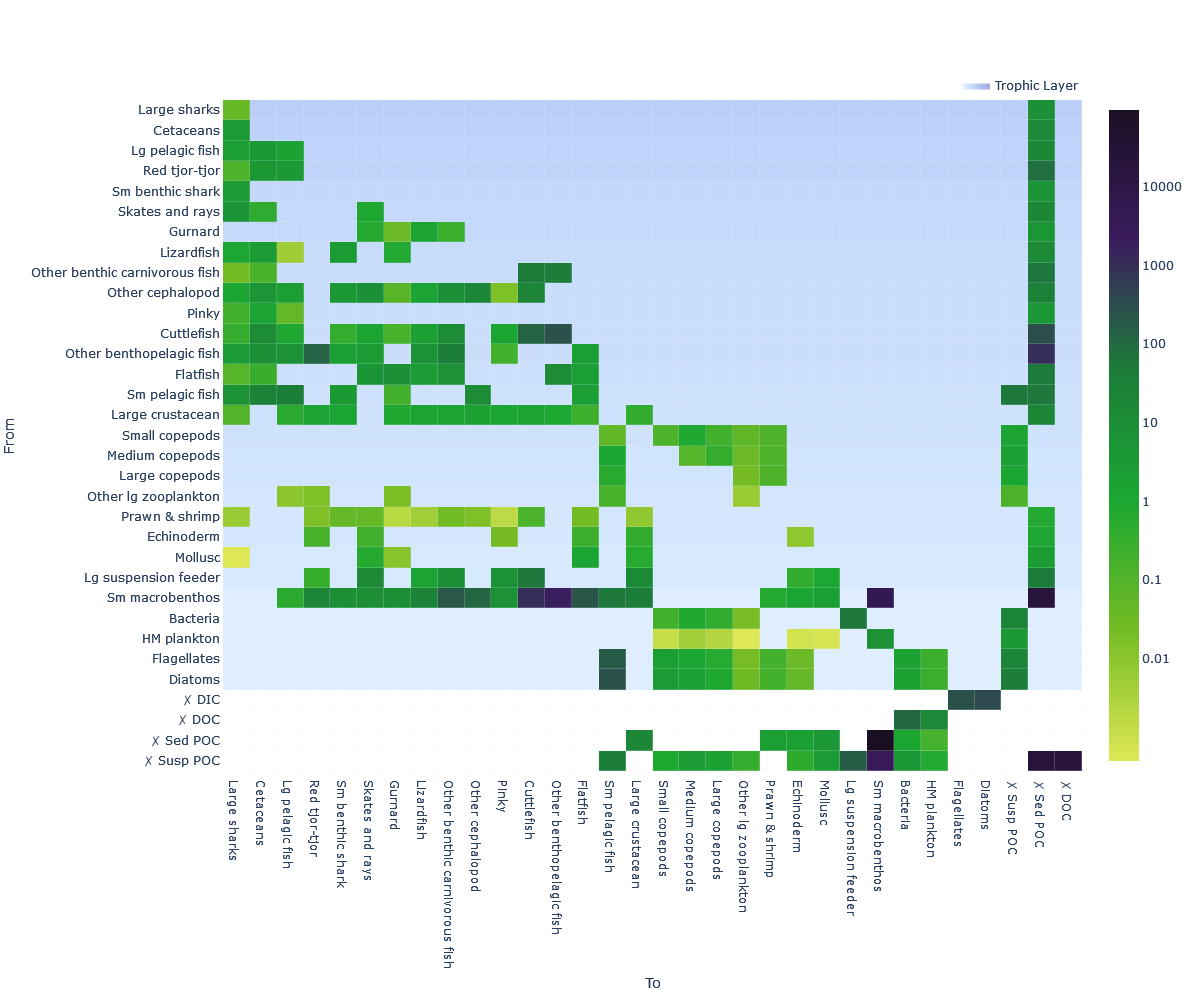
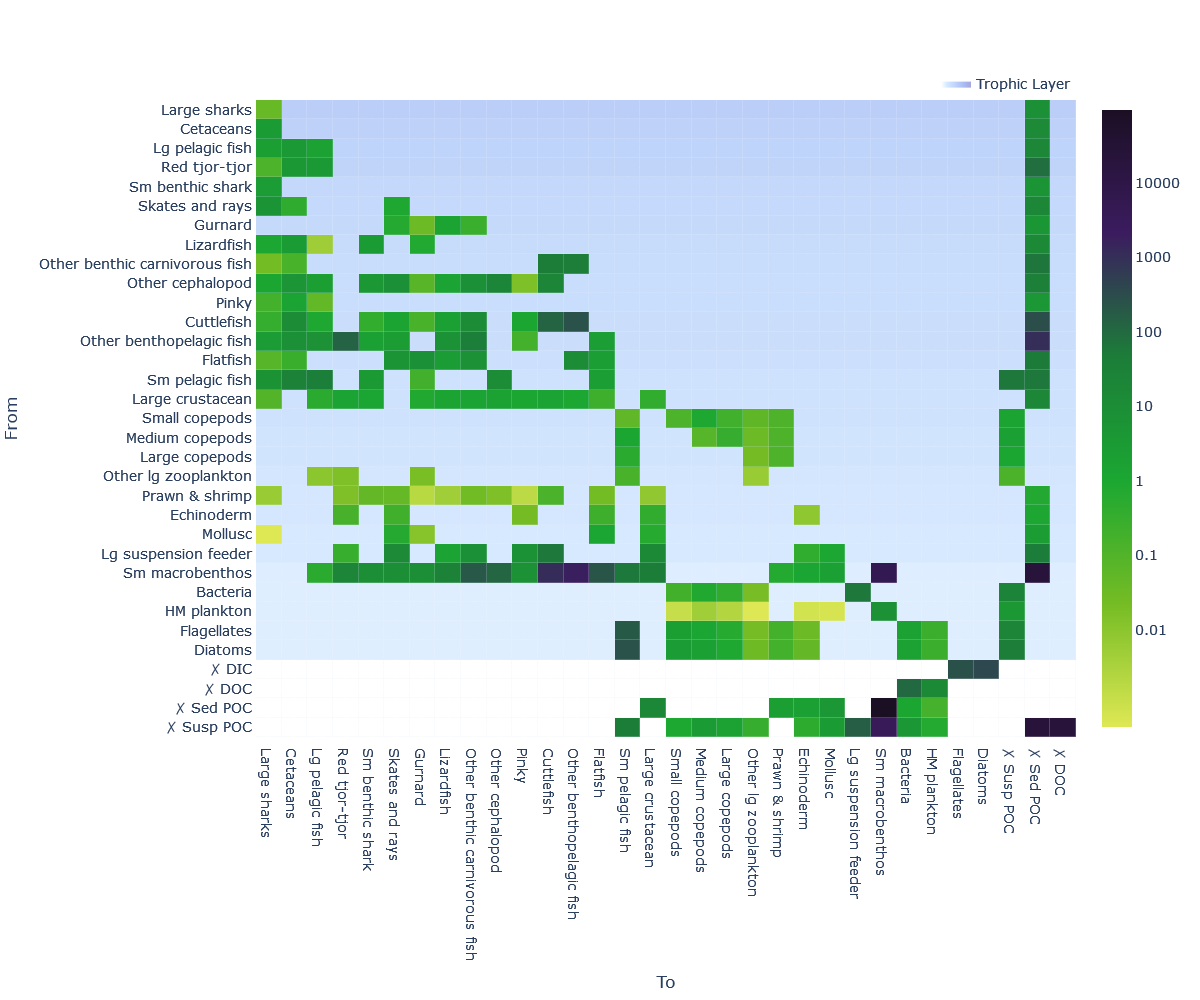
Updated font size on all plots and promoted it to a function argument

Changed region(s): [[0.0308, 0.062, 0.9867, 0.961], [0.0, 0.403, 0.0308, 0.434]]

diff --git a/foodwebviz/visualization.py b/foodwebviz/visualization.py
@@ -127,7 +127,7 @@ def _get_array_order(graph, nodes, reverse=False):
 
 def draw_heatmap(food_web, boundary=False, normalization='log',
                  show_trophic_layer=True, switch_axes=False,
-                 width=1200, height=800):
+                 width=1200, height=800, font_size=14):
     '''Visualize foodweb as a heatmap. On the interesction
     of X axis ("from" node) and Y axis ("to" node) flow weight
     is indicated.
@@ -151,6 +151,8 @@ def draw_heatmap(food_web, boundary=False, normalization='log',
         Width of the heatmap plot, large foodwebs might not fit in default width.
     height : int, optional (default=800)
         Height of the heatmap plot, large foodwebs might not fit in default height.
+    font_size: int, optional (default=18)
+        font size of labels
 
     Returns
     -------
@@ -215,13 +217,14 @@ def draw_heatmap(food_web, boundary=False, normalization='log',
                           xanchor="right",
                           x=1,
                           y=1),
+                      font={'size': font_size}
                       )
     fig.update_xaxes(showspikes=True, spikethickness=0.5)
     fig.update_yaxes(showspikes=True, spikesnap="cursor", spikemode="across", spikethickness=0.5)
     return fig
 
 
-def draw_trophic_flows_heatmap(food_web, switch_axes=False, log_scale=False, width=1200, height=800):
+def draw_trophic_flows_heatmap(food_web, switch_axes=False, log_scale=False, width=1200, height=800, font_size=24):
     '''Visualize flows between foodweb's trophic levels as a heatmap.
     The color at (x,y) represents the sum of flows from trophic level x to
     trophic level y.
@@ -237,7 +240,9 @@ def draw_trophic_flows_heatmap(food_web, switch_axes=False, log_scale=False, wid
     width : int, optional (default=1200)
         Width of the plot.
     height : int, optional (default=800)
-        Height of the plot.
+        Height of the plot
+    font_size: int, optional (default=18)
+        Font size of labels
 
     Returns
     -------
@@ -279,12 +284,12 @@ def draw_trophic_flows_heatmap(food_web, switch_axes=False, log_scale=False, wid
                              'dtick': 1},
                       xaxis={'title': 'Trophic Layer To' if not switch_axes else 'Trophic Layer From',
                              'dtick': 1},
-                      font={'size': 24}
+                      font={'size': font_size}
                       )
     return fig
 
 
-def draw_trophic_flows_distribution(food_web, normalize=True, width=1000, height=800):
+def draw_trophic_flows_distribution(food_web, normalize=True, width=1000, height=800, font_size=24):
     '''Visualize flows between trophic levels as a stacked bar chart.
 
     Parameters
@@ -325,7 +330,7 @@ def draw_trophic_flows_distribution(food_web, normalize=True, width=1000, height
     fig.update_layout(yaxis={'title': 'Trophic Layer From', 'tickformat': ',d'},
                       xaxis={'title': 'Percentage of flow'},
                       legend_title='Trophic Layer To',
-                      font={'size': 22})
+                      font={'size': font_size})
 
     return fig
 
